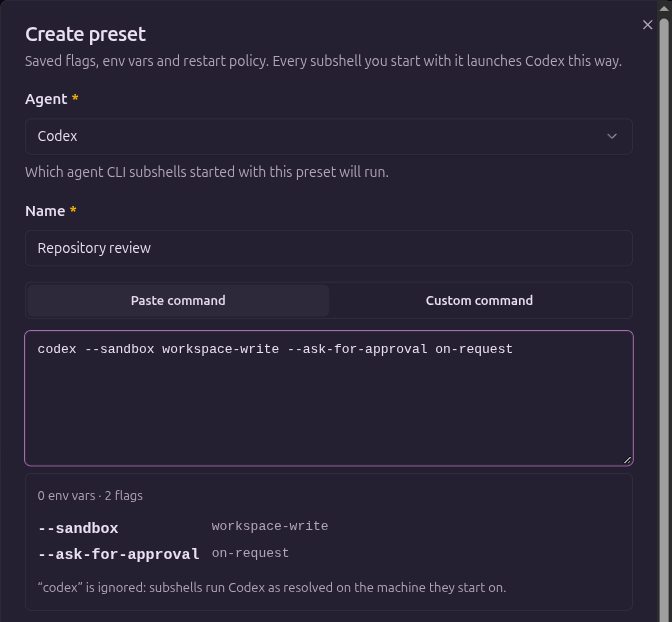
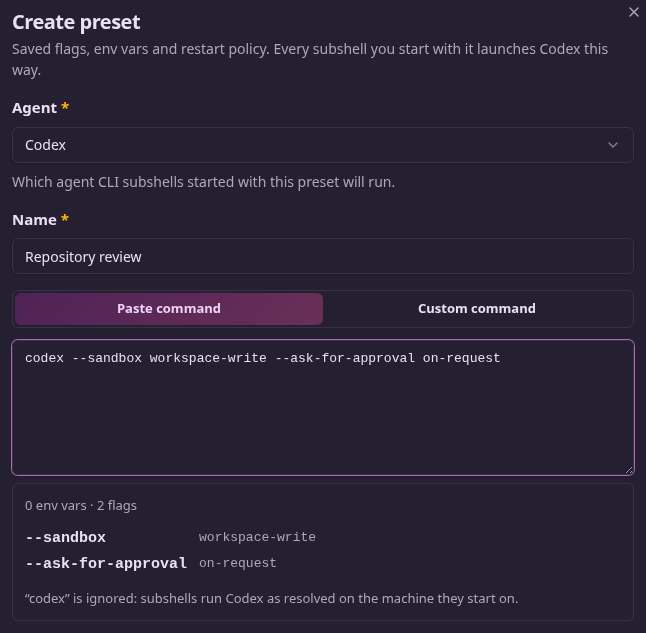
docs: refresh product screenshots for the current interface

diff --git a/e2e/capture-docs.ts b/e2e/capture-docs.ts
@@ -1,0 +1,223 @@
+import { spawnSync } from "node:child_process";
+import { mkdirSync, mkdtempSync, rmSync, writeFileSync } from "node:fs";
+import { tmpdir } from "node:os";
+import path from "node:path";
+import { chromium, expect, type Locator, type Page, request } from "@playwright/test";
+import { BASE_URL, PORTS } from "./ports";
+import { startStack, stopStack } from "./stack";
+
+// Real UI, real API records, and real terminal commands on a disposable stack.
+// No agent responses or browser states are mocked for documentation images.
+if (PORTS.backend === 3080) throw new Error("Documentation capture must not use the live instance");
+process.env.TRUSTED_ORIGINS = "https://subshell.example.com";
+const project = mkdtempSync(path.join(tmpdir(), "subshell-docs-project-"));
+const output = path.resolve(import.meta.dirname, "../apps/docs/public/screenshots");
+const cleanup: (() => Promise<void> | void)[] = [() => rmSync(project, { recursive: true, force: true }), stopStack];
+const dimensions: Record<string, { width: number; height: number }> = {};
+
+async function capture(page: Page, name: string, first: Locator, last = first) {
+  await first.scrollIntoViewIfNeeded();
+  const a = await first.boundingBox();
+  const b = await last.boundingBox();
+  if (!a || !b) throw new Error(`Missing screenshot bounds: ${name}`);
+  const x = Math.max(0, Math.floor(Math.min(a.x, b.x) - 12));
+  const y = Math.max(0, Math.floor(Math.min(a.y, b.y) - 12));
+  const width = Math.ceil(Math.max(a.x + a.width, b.x + b.width) - x + 12);
+  const height = Math.ceil(Math.max(a.y + a.height, b.y + b.height) - y + 12);
+  await page.screenshot({
+    path: path.join(output, `${name}.png`),
+    clip: { x, y, width, height },
+    animations: "disabled",
+  });
+  dimensions[name] = { width, height };
+  console.log(`${name}: ${width} x ${height}`);
+}
+
+try {
+  mkdirSync(path.join(project, "src"));
+  writeFileSync(
+    path.join(project, "src/tasks.ts"),
+    "export const complete = (tasks, id) => tasks.map(task => task.id === id ? { ...task, done: true } : task);\n",
+  );
+  writeFileSync(
+    path.join(project, "tasks.test.ts"),
+    'import { expect, test } from "bun:test";\nimport { complete } from "./src/tasks";\ntest("completes the matching task", () => { expect(complete([{id:1, done:false}], 1)[0].done).toBe(true); });\ntest("keeps other tasks unchanged", () => { expect(complete([{id:1, done:false}], 2)[0].done).toBe(false); });\n',
+  );
+  await startStack();
+  const api = await request.newContext({ baseURL: BASE_URL });
+  cleanup.push(() => api.dispose());
+  async function post(url: string, data: object) {
+    const res = await api.post(url, { data });
+    if (!res.ok()) throw new Error(`${url}: ${res.status()} ${await res.text()}`);
+    return res.json();
+  }
+  await post("/api/auth/sign-up/email", {
+    name: "Alex Morgan",
+    email: "alex@example.test",
+    password: "docs-fixture-password-1",
+  });
+  expect((await api.patch("/api/setup/progress", { data: { step: null } })).ok()).toBe(true);
+  expect((await api.patch("/api/settings", { data: { instanceName: "Demo workspace" } })).ok()).toBe(true);
+  const prompts: { id: string; description: string; body: string }[] = [];
+  for (const [description, body] of [
+    ["Project context", "Read AGENTS.md and use the package test scripts."],
+    ["Review changes", "Review uncommitted changes for correctness and missing tests. Do not modify files."],
+    ["Review report format", "Order findings by severity, with file paths, line numbers, and suggested fixes."],
+  ])
+    prompts.push(await post("/api/prompts", { description, body }));
+  await post("/api/prompts/stacks", {
+    label: "Repository review checklist",
+    items: prompts.map((p) => ({ promptId: p.id })),
+  });
+  await post("/api/presets", {
+    harnessId: "codex",
+    name: "Repository review",
+    flags: ["--sandbox", "workspace-write", "--ask-for-approval", "on-request"],
+    nodeId: "local",
+    workingDir: project,
+    promptBlocks: [
+      { kind: "saved", promptId: prompts[1].id, description: prompts[1].description, body: prompts[1].body },
+    ],
+    crossCommEnabled: true,
+  });
+  const shell = await post("/api/presets", {
+    harnessId: "terminal",
+    name: "Project shell",
+    flags: ["--noprofile", "--norc"],
+    env: { PS1: "$ " },
+    nodeId: "local",
+    workingDir: project,
+  });
+  const panes: { id: string }[] = [];
+  for (const name of ["Project shell", "Test results"])
+    panes.push(await post("/api/subshells", { harnessId: "terminal", presetId: shell.id, workingDir: project, name }));
+  const workspace = await post("/api/workspaces", { name: "Project workspace", subshellId: panes[0].id });
+  await post(`/api/workspaces/${workspace.id}/panes`, { subshellId: panes[1].id });
+  const browser = await chromium.launch();
+  cleanup.push(() => browser.close());
+  const context = await browser.newContext({
+    baseURL: BASE_URL,
+    storageState: await api.storageState(),
+    viewport: { width: 1180, height: 1200 },
+    colorScheme: "dark",
+  });
+  const page = await context.newPage();
+  page.setDefaultTimeout(15000);
+  const dialog = page.getByRole("dialog");
+  const card = page.locator("main .bg-card");
+  async function close() {
+    await dialog.getByRole("button", { name: "Close", exact: true }).click();
+  }
+
+  await page.goto("/presets");
+  await expect(page.getByRole("button", { name: "Repository review", exact: true })).toBeVisible();
+  await capture(page, "preset-library", page.locator("main h1"), card.last());
+  await page.getByRole("button", { name: "New preset", exact: true }).click();
+  await page.locator("#preset-harness").click();
+  await page.getByRole("option", { name: "Codex", exact: true }).click();
+  await page.locator("#preset-name").fill("Repository review");
+  await page.locator("#preset-command textarea").fill("codex --sandbox workspace-write --ask-for-approval on-request");
+  await expect(page.getByText("0 env vars · 2 flags")).toBeVisible();
+  await capture(page, "preset-codex-configuration", dialog.getByRole("heading"), page.locator("#preset-command"));
+  await close();
+  await page.getByRole("button", { name: "Actions for Repository review", exact: true }).click();
+  await page.getByRole("menuitem", { name: "Edit", exact: true }).click();
+  await capture(page, "preset-launch-defaults", page.getByText("Launch defaults", { exact: true }).locator(".."));
+
+  await page.goto("/prompts");
+  await expect(page.getByRole("button", { name: "Repository review checklist", exact: true })).toBeVisible();
+  await capture(page, "prompt-library", page.locator("main h1"), card.last());
+  await page.getByRole("button", { name: "Stacked", exact: true }).click();
+  await page.getByRole("button", { name: "Repository review checklist", exact: true }).click();
+  await expect(page.getByRole("list", { name: "Stack members" })).toBeVisible();
+  await capture(page, "prompt-stack-members", card.last());
+
+  await page.goto("/nodes");
+  await page.getByRole("button", { name: "Add node", exact: true }).click();
+  await page.getByRole("button", { name: "Desktop App", exact: true }).click();
+  await capture(page, "node-enrollment", dialog);
+  await close();
+
+  await page.getByRole("button", { name: "Subshell for Mobile", exact: true }).click();
+  await page.getByRole("button", { name: "iPhone & iPad", exact: true }).click();
+  await capture(page, "mobile-web-install", dialog);
+  await close();
+
+  await page.goto("/settings/networking");
+  await expect(page.locator("#server-base-url")).toHaveValue(BASE_URL);
+  await capture(
+    page,
+    "server-addresses",
+    page.locator("#server-base-url").locator(".."),
+    page.locator("#server-trusted-origins").locator(".."),
+  );
+
+  await page.goto(`/subshells/${panes[0].id}`);
+  await page.getByRole("button", { name: "Actions for Project shell", exact: true }).click();
+  await page.getByRole("menuitem", { name: "Share…", exact: true }).click();
+  await dialog.getByRole("button", { name: "Add", exact: true }).click();
+  await capture(page, "session-sharing", dialog);
+  await close();
+  await page.goto("/");
+  await expect(page.locator("main").getByText("Project shell", { exact: true })).toBeVisible();
+  await page.locator("main").getByRole("button", { name: "List view", exact: true }).click();
+  await page.getByRole("combobox", { name: "Group by", exact: true }).click();
+  await page.getByRole("option", { name: "No grouping", exact: true }).click();
+  await capture(page, "session-dashboard", page.locator("main h1"), card.last());
+
+  await page.setViewportSize({ width: 1280, height: 540 });
+  await page.goto(`/workspaces/${workspace.id}`);
+  const tab = page.getByRole("tab", { name: "Test results", exact: true });
+  await expect(tab).toBeVisible();
+  const source = await tab.boundingBox();
+  const target = await page.getByRole("tabpanel", { name: "Test results" }).boundingBox();
+  if (!source || !target) throw new Error("Workspace drag bounds unavailable");
+  await page.mouse.move(source.x + source.width / 2, source.y + source.height / 2);
+  await page.mouse.down();
+  await page.mouse.move(source.x + source.width / 2, source.y + source.height + 30, { steps: 5 });
+  await page.mouse.move(target.x + target.width - 15, target.y + target.height / 2, { steps: 20 });
+  await page.mouse.up();
+  await expect(page.getByRole("tabpanel")).toHaveCount(2);
+  await expect(page.locator(".xterm")).toHaveCount(2);
+  await post(`/api/subshells/${panes[0].id}/input`, { text: "clear; ls -R; cat src/tasks.ts", submit: true });
+  await post(`/api/subshells/${panes[1].id}/input`, { text: "clear; bun test", submit: true });
+  await expect.poll(async () => (await api.get(`/api/subshells/${panes[1].id}/log`)).text()).toContain("2 pass");
+  await page.waitForTimeout(500);
+  // Keep the workspace header and actual output, omitting empty terminal space.
+  const workspaceBounds = await page.locator("main").boundingBox();
+  if (!workspaceBounds) throw new Error("Workspace bounds unavailable");
+  const clip = { ...workspaceBounds, height: 310 };
+  await page.screenshot({ path: path.join(output, "workspace-layout.png"), clip, animations: "disabled" });
+  dimensions["workspace-layout"] = { width: clip.width, height: clip.height };
+  for (const name of [
+    "workspace-layout",
+    "prompt-stack-members",
+    "preset-library",
+    "session-sharing",
+    "node-enrollment",
+  ]) {
+    const encoded = spawnSync("ffmpeg", [
+      "-v",
+      "error",
+      "-y",
+      "-i",
+      path.join(output, `${name}.png`),
+      "-c:v",
+      "libwebp",
+      "-lossless",
+      "1",
+      path.resolve(import.meta.dirname, `../apps/website/public/shots/${name}.webp`),
+    ]);
+    if (encoded.status !== 0) throw new Error(`Could not encode ${name}: ${encoded.stderr}`);
+  }
+  console.log(JSON.stringify(dimensions));
+} finally {
+  for (const stop of cleanup.reverse()) {
+    try {
+      await stop();
+    } catch (error) {
+      console.error(error);
+      process.exitCode = 1;
+    }
+  }
+}

diff --git a/apps/website/components/feature-showcase.tsx b/apps/website/components/feature-showcase.tsx
@@ -5,36 +5,36 @@ import { SelfHostedSection } from "./self-hosted-section";
 const SHOTS = {
   workspace: {
     name: "workspace-layout",
-    width: 1423,
-    height: 898,
-    alt: "Codex and Claude Code reviewing code side by side in a Subshell workspace",
-    caption: "Two agents, one workspace. On your phone, panes become tabs.",
+    width: 1056,
+    height: 310,
+    alt: "A project shell and test results side by side in a Subshell workspace",
+    caption: "Two subshells, one workspace. On your phone, panes become tabs.",
   },
   prompts: {
     name: "prompt-stack-members",
-    width: 830,
-    height: 251,
+    width: 932,
+    height: 357,
     alt: "A saved review checklist combining project context, review instructions, and report format in order",
     caption: "Build a prompt stack from instructions you already use.",
   },
   presets: {
     name: "preset-library",
-    width: 1756,
-    height: 612,
+    width: 932,
+    height: 430,
     alt: "Saved launch presets for a Codex repository review and a project terminal",
     caption: "Save launch settings for each agent as a preset.",
   },
   sharing: {
     name: "session-sharing",
-    width: 855,
-    height: 593,
+    width: 536,
+    height: 384,
     alt: "Subshell sharing dialog with separate View and View + edit permissions",
     caption: "Choose who can watch and who can type into the subshell.",
   },
   nodes: {
     name: "node-enrollment",
-    width: 1024,
-    height: 989,
+    width: 536,
+    height: 520,
     alt: "Add node instructions for connecting another machine with Subshell Client, a server address, and a setup key",
     caption: "Connect another machine using a setup key from your dashboard.",
   },

diff --git a/e2e/AGENTS.md b/e2e/AGENTS.md
@@ -167,3 +167,14 @@ real form state and a real first-connection refusal. It cancels confirmation
 and checks that no destination trust was saved, then cleans up its processes
 and temporary state. Review the images and update their intrinsic dimensions
 in `guides/ssh.mdx` if the layout changes. Never point it at the live server.
+
+For the other documentation screenshots, run `bun e2e/capture-docs.ts` after
+building the SPA. It uses the same isolated stack with sample presets, prompts,
+a workspace, and real terminal sessions running a small temporary project.
+No coding-agent responses are simulated. The script also refreshes the five
+marketing-site WebP copies using `ffmpeg`, which must be installed.
+
+Review every capture, update intrinsic dimensions in the referring MDX and
+`apps/website/components/feature-showcase.tsx`, and check the captions against
+the actual controls. The example address and QR code are public sample values;
+no setup key is generated. Remove obsolete assets and their references together.

diff --git a/.changeset/refresh-docs-screenshots.md b/.changeset/refresh-docs-screenshots.md
@@ -1,0 +1,5 @@
+---
+"@internal/docs": patch
+---
+
+Refresh documentation screenshots for the current dashboard, forms, tables, and dialogs. Remove the obsolete dashboard capture and update preset editing instructions and screenshot captions.

diff --git a/.changeset/refresh-website-screenshots.md b/.changeset/refresh-website-screenshots.md
@@ -1,0 +1,5 @@
+---
+"@internal/website": patch
+---
+
+Refresh product screenshots to match the current interface and remove unused screenshots of earlier designs.
